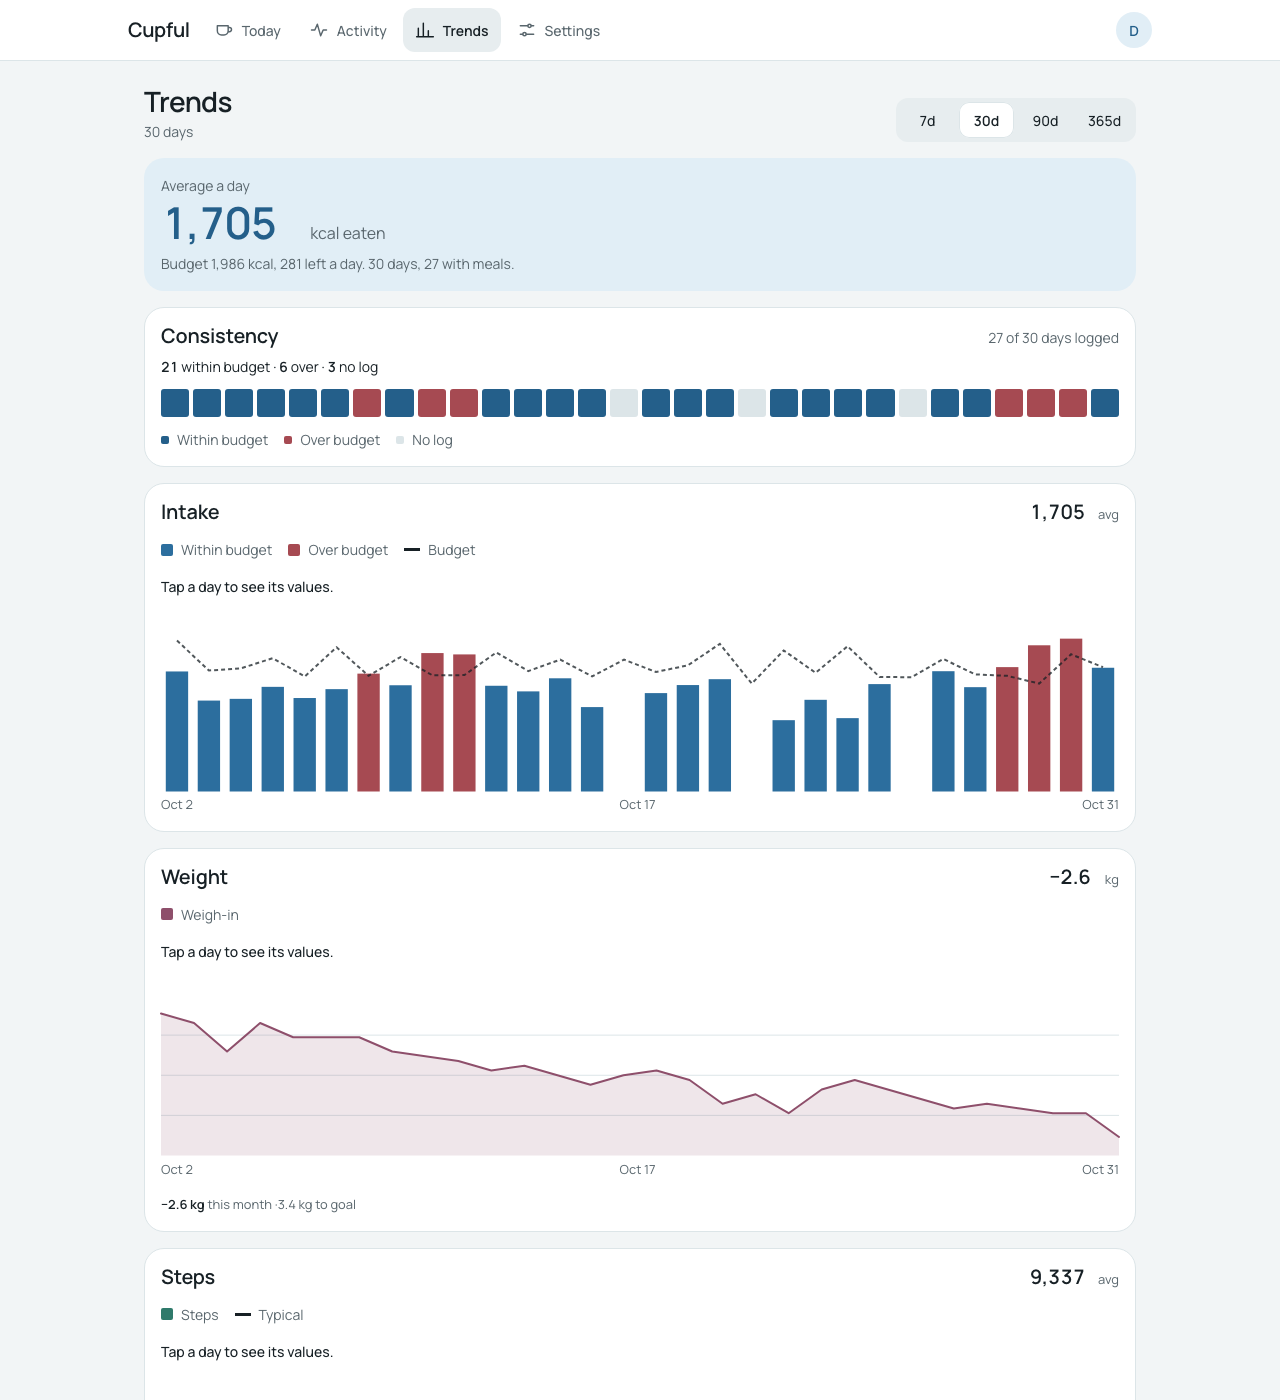
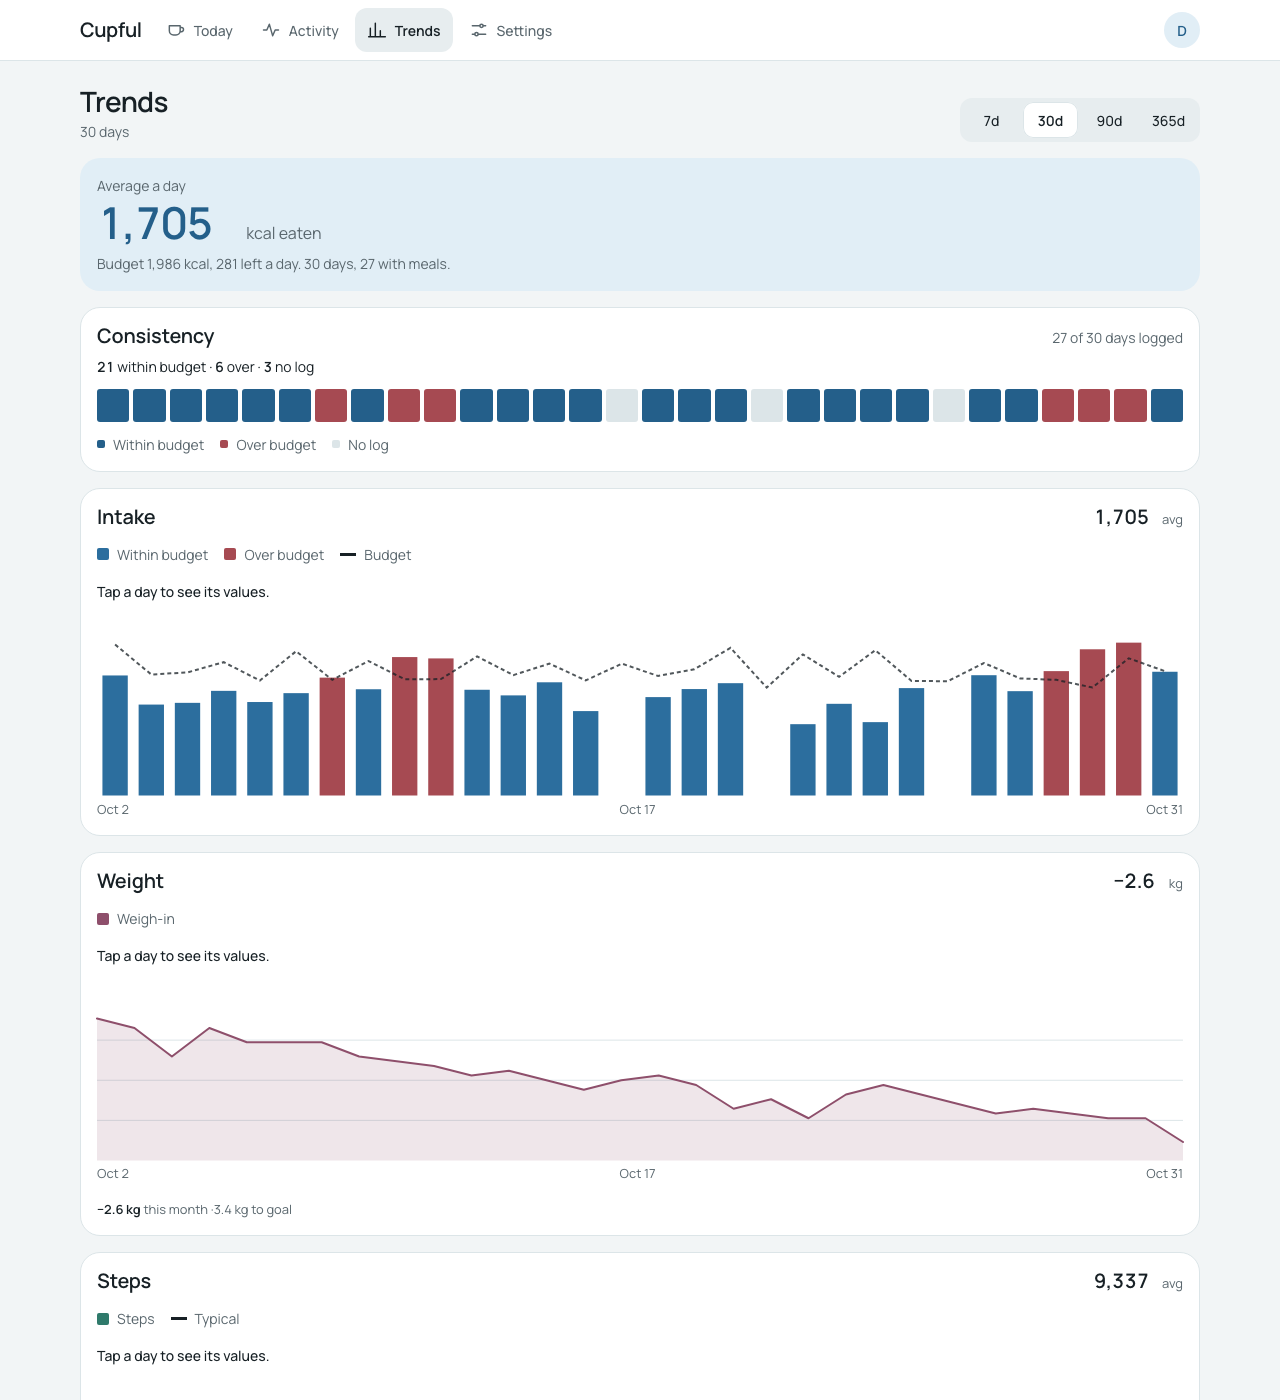
Use the page width on Activity
Widen the shell to 72rem, align the top bar with the page, and place the Activity budget beside the stat cards on wide screens. Add a desktop layout regression test and refresh the Trends screenshot.

diff --git a/web/src/lib/activity/ActivitySection.svelte b/web/src/lib/activity/ActivitySection.svelte
@@ -6,6 +6,7 @@
     date: string             YYYY-MM-DD, the selected day
     refreshKey: number       bumped after any write to the day; refetch when it changes
     onChanged: () => void    call after a write is applied (the budget card refreshes)
+    heading?: boolean        show the section heading and saved status (default true)
   Data: getDay(date). Writes only through #lib/sync (dayPatch + sendOps).
   The server never lets Shortcut or import values overwrite a manual one; typing here is manual.
 -->
@@ -102,14 +103,22 @@
 </script>
 
 <section class="activity" aria-label="Activity" aria-busy={data === null && !loadError}>
-	<header class="head">
-		{#if heading}<h2>Activity</h2>{/if}
-		<p class="saved small" role="status">
+	{#if heading}
+		<header class="head">
+			<h2>Activity</h2>
+			<p class="saved small" role="status">
+				{#key status}
+					{#if status}<span class="saved-text">{status}</span>{/if}
+				{/key}
+			</p>
+		</header>
+	{:else}
+		<p class="visually-hidden" role="status">
 			{#key status}
 				{#if status}<span class="saved-text">{status}</span>{/if}
 			{/key}
 		</p>
-	</header>
+	{/if}
 
 	{#if loadError}
 		<div class="notice notice-error" role="alert">

diff --git a/web/e2e/trends.spec.ts b/web/e2e/trends.spec.ts
@@ -136,8 +136,22 @@ test('Trends: charts, range switch remembered, empty state, no side scroll', asy
 	await noSideScroll(page);
 
 	// Other spec files share the server, so meals may exist: a chart or its empty state, never neither.
-	const intake = page.getByRole('region', { name: 'Intake' });
+	const intake = page.getByRole('region', { name: 'Intake', exact: true });
 	await expect(
 		intake.locator('.plot svg').first().or(intake.getByText('No meals logged in this range'))
 	).toBeVisible();
+});
+
+test('Activity uses the desktop width: budget beside the stat cards', async () => {
+	await page.setViewportSize({ width: 1280, height: 900 });
+	await page.goto('/activity');
+	await expect(page.getByRole('heading', { name: 'Activity', level: 1 })).toBeVisible();
+	await expect(page.getByRole('region', { name: 'Activity' })).toBeVisible();
+
+	const steps = await page.locator('.stat-steps').boundingBox();
+	const budget = await page.getByRole('region', { name: 'Budget' }).boundingBox();
+	expect(steps).not.toBeNull();
+	expect(budget).not.toBeNull();
+	expect(budget!.x).toBeGreaterThan(steps!.x + steps!.width);
+	await noSideScroll(page);
 });

diff --git a/web/src/routes/activity/+page.svelte b/web/src/routes/activity/+page.svelte
@@ -16,20 +16,29 @@
 		<h1>Activity</h1>
 		<DayNav />
 	</header>
-	<ActivitySection date={day.date} {refreshKey} onChanged={changed} heading={false} />
-	<BudgetCard date={day.date} {refreshKey} />
+	<div class="panels">
+		<ActivitySection date={day.date} {refreshKey} onChanged={changed} heading={false} />
+		<BudgetCard date={day.date} {refreshKey} />
+	</div>
 </div>
 
 <style>
-	.activity {
-		max-width: var(--content-max);
-		margin: 0 auto;
-	}
 	.page-head {
 		display: flex;
 		align-items: center;
 		justify-content: space-between;
 		gap: var(--space-3);
 		flex-wrap: wrap;
+	}
+	.panels {
+		display: grid;
+		gap: var(--space-5);
+	}
+	/* Wide: the budget sits beside the stat cards, so the page uses its full width. */
+	@media (min-width: 68rem) {
+		.panels {
+			grid-template-columns: minmax(0, 1.8fr) minmax(21rem, 1fr);
+			align-items: start;
+		}
 	}
 </style>

diff --git a/web/src/routes/+layout.svelte b/web/src/routes/+layout.svelte
@@ -102,7 +102,7 @@
 <style>
 	/* Pages narrower than this (forms, settings) set max-width: var(--content-max) themselves. */
 	.page {
-		max-width: 64rem;
+		max-width: var(--page-max);
 		margin: 0 auto;
 		padding: var(--space-4) var(--gutter) var(--space-6);
 		padding-left: max(var(--gutter), env(safe-area-inset-left));
@@ -177,7 +177,8 @@
 			justify-content: flex-start;
 			align-items: center;
 			gap: var(--space-3);
-			padding: var(--space-2) max(var(--gutter), calc((100vw - 64rem) / 2));
+			padding: var(--space-2)
+				max(var(--gutter), calc((100vw - var(--page-max)) / 2 + var(--gutter)));
 			border-top: 0;
 			border-bottom: 1px solid var(--border);
 		}

diff --git a/web/src/lib/styles/tokens.css b/web/src/lib/styles/tokens.css
@@ -124,6 +124,7 @@
 	--space-8: 3rem;
 	--gutter: var(--space-4); /* page side padding on phones */
 	--content-max: 40rem;
+	--page-max: 72rem;
 	--touch: 2.75rem; /* 44 px minimum touch target */
 
 	/* ---- shape ---- */

diff --git a/docs/design.md b/docs/design.md
@@ -135,7 +135,7 @@ Tokens live in `web/src/lib/styles/tokens.css`.
 | Sources | `--src-db`/`--src-db-soft` ("Database"), `--src-ai`/`--src-ai-soft` ("AI estimate") |
 | Charts | `--chart-intake`, `--chart-budget`, `--chart-weight`, `--chart-average`, `--chart-steps`, `--chart-over`, `--chart-grid`, `--chart-axis` |
 | Type | `--font-sans`, `--font-numeric`; `--text-xs` 13, `--text-sm` 14, `--text-md` 16, `--text-lg` 20, `--text-xl` 28, `--text-2xl` 32, `--text-hero` 44 px; `--leading-tight`, `--leading`; `--weight-regular` 400, `--weight-medium` 500, `--weight-bold` 600 |
-| Space | `--space-1` through `--space-8` (4, 8, 12, 16, 24, 32, 40, 48 px), `--gutter`, `--content-max` (40 rem), `--touch` (44 px) |
+| Space | `--space-1` through `--space-8` (4, 8, 12, 16, 24, 32, 40, 48 px), `--gutter`, `--content-max` (40 rem), `--page-max` (72 rem), `--touch` (44 px) |
 | Shape | `--radius-sm` (10 px), `--radius-md` (12 px controls), `--radius-lg` (20 px cards), `--radius-sheet` (24 px), `--radius-pill`, `--shadow-card` (none), `--shadow-sheet` |
 | Motion | `--dur-fast` 120, `--dur-med` 180, `--dur-slow` 240 ms, `--ease`. All durations are 0 under `prefers-reduced-motion` |
 

diff --git a/docs/decisions.md b/docs/decisions.md
@@ -139,3 +139,4 @@ One line per deviation from the design or notable choice: date - what - why.
 - 2026-10-31 - Manrope is self-hosted as woff2 under the OFL. - No font CDN request, no third-party telemetry, and the same render offline.
 - 2026-10-31 - The shell uses the Pantry layout: 20 px cards, a 22 rem budget column beside the composer, and one content width for wide screens. - Chosen from five rendered layouts for scan order and phone ergonomics.
 - 2026-10-31 - Only Trends animates on entry: staggered bar growth, count-ups and fades, replayed on a range change and disabled by `prefers-reduced-motion`. Other screens change instantly with feedback-only motion. - Trends is the one screen where the shape of the data is the point; motion elsewhere slows logging.
+- 2026-10-31 - The page shell is 72 rem wide, and Activity puts its budget beside the stat cards above 68 rem. - The 40 rem Activity cap left half the desktop window empty; wider cards and a side-by-side budget use the space without stretching a single column.
